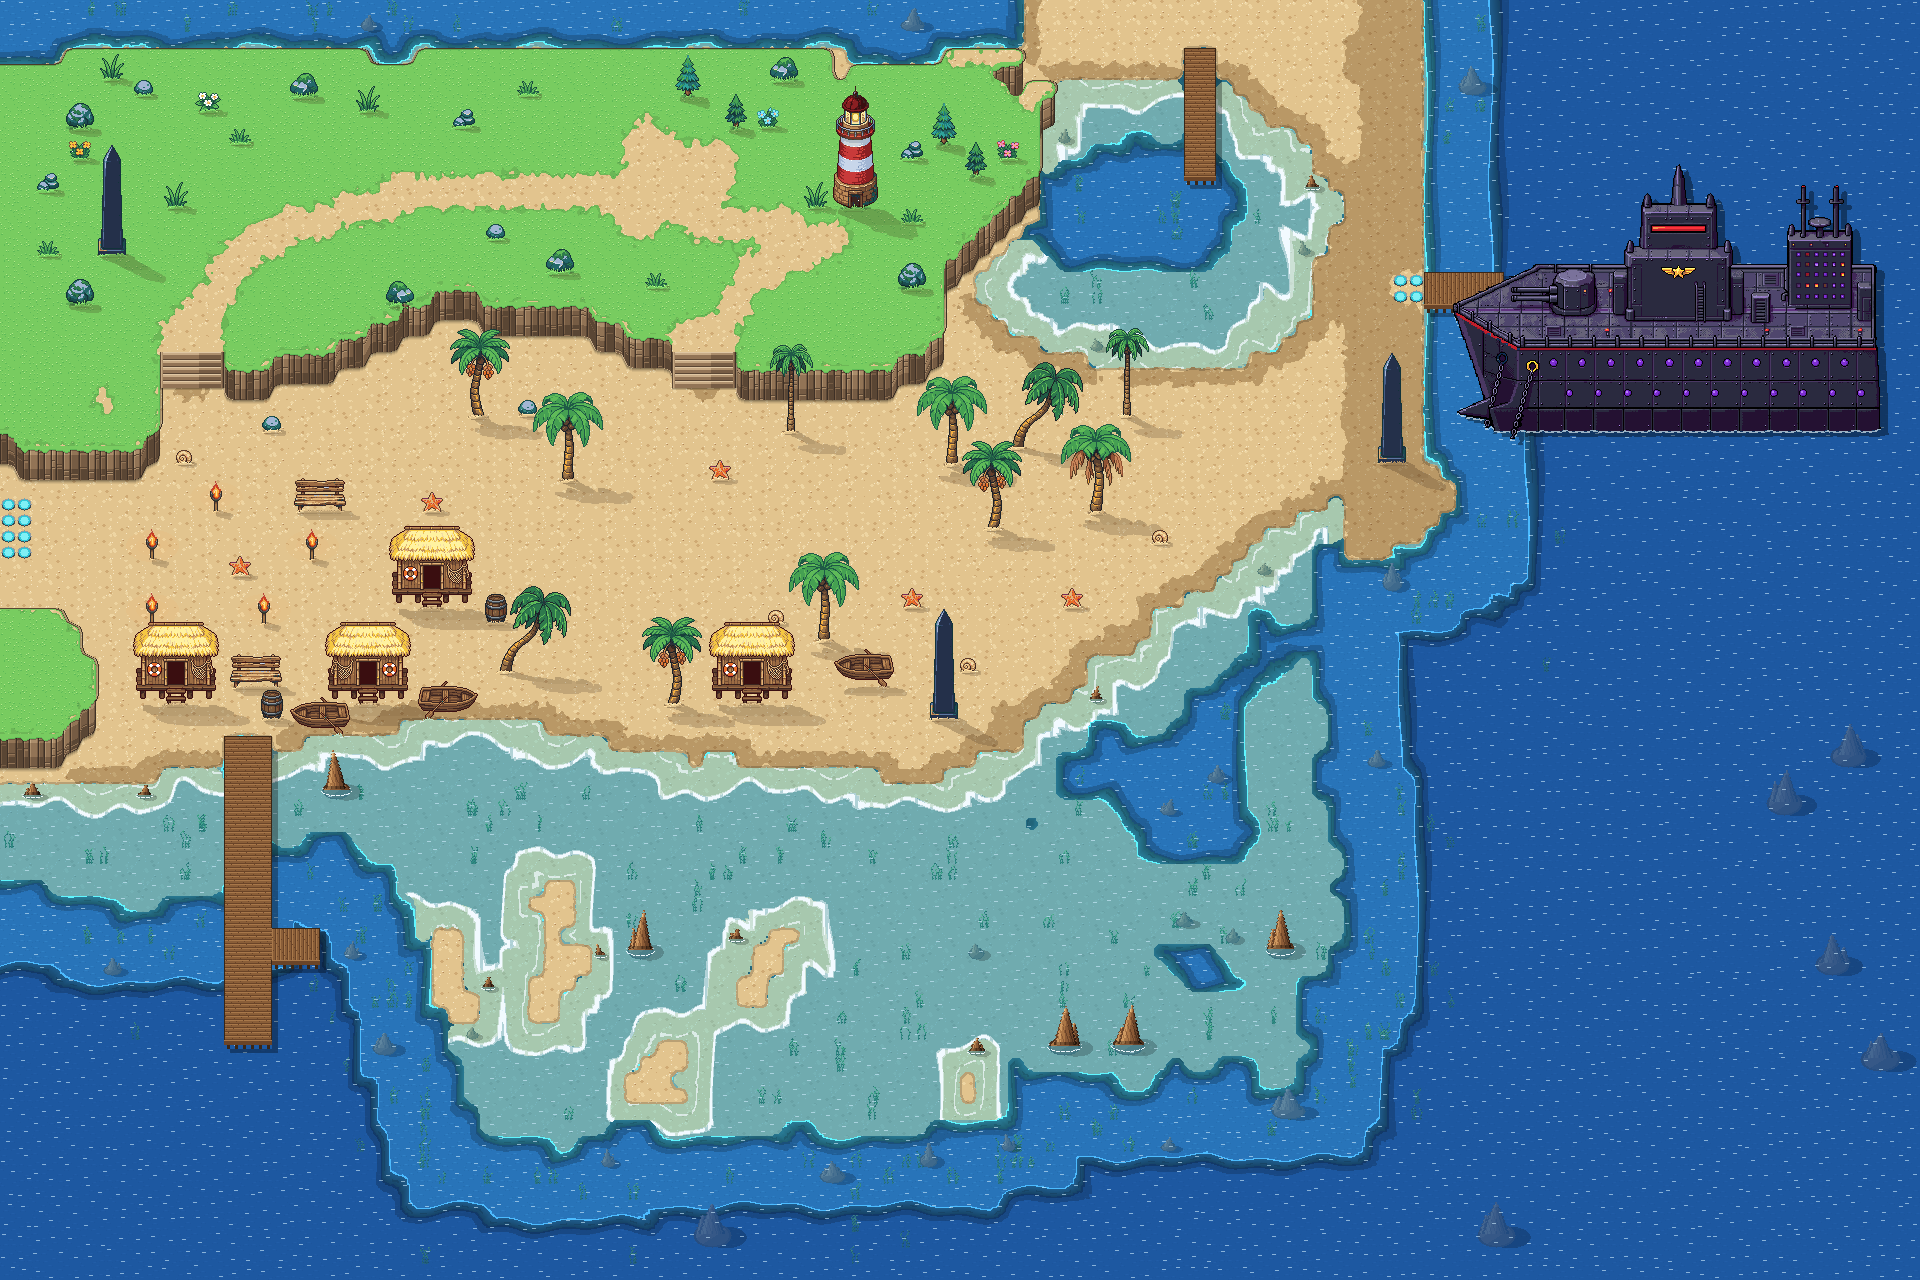
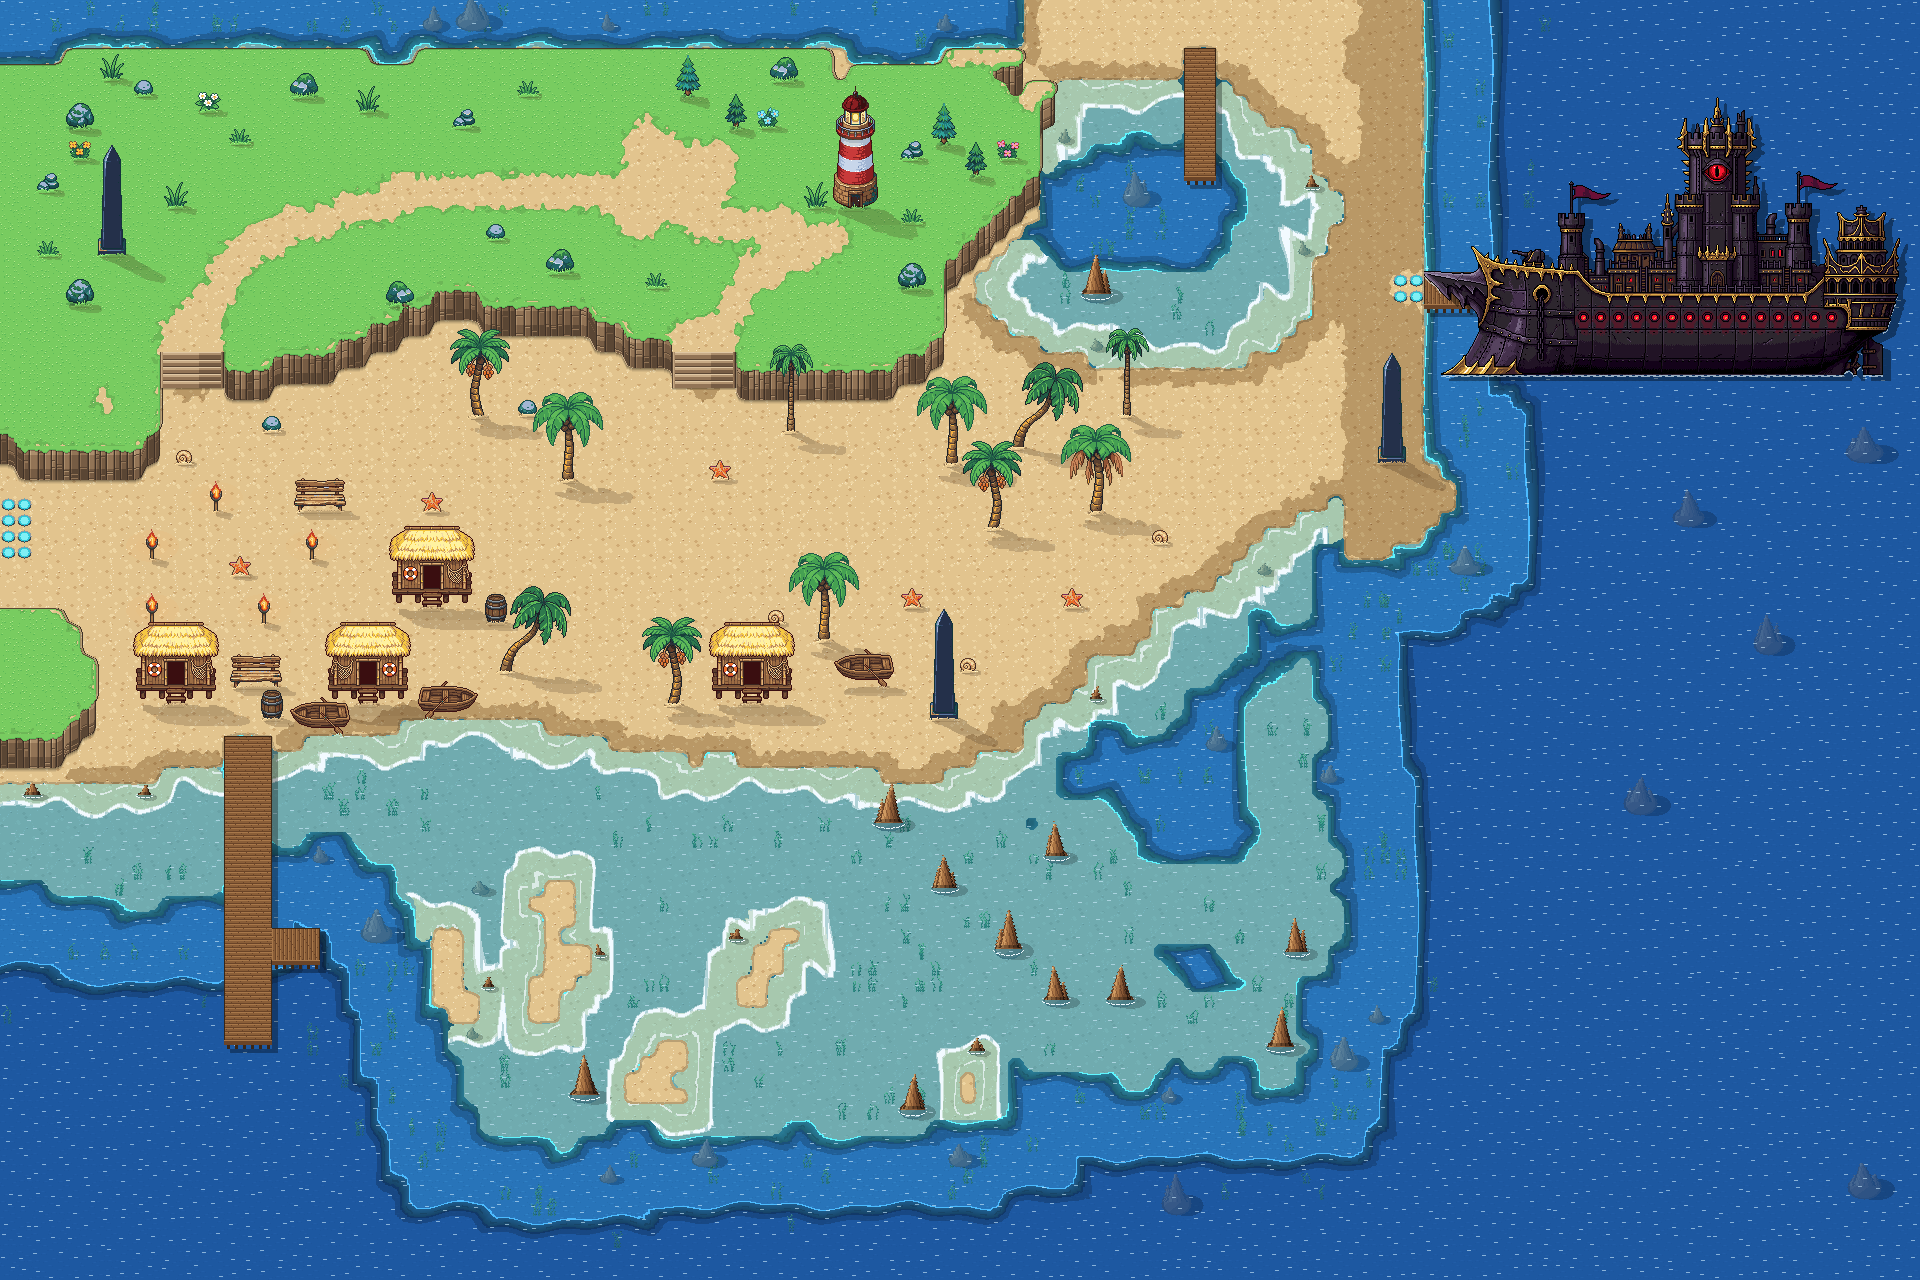
Karte 25: Kaiser-Flaggschiff (eigener Entwurf A) im Hafen, nachgezeichnetes Vorlagenschiff entfernt
Claude-Session: https://claude.ai/code/session_01SaoYHKhnro4LFcPJqjaPsq

diff --git a/tools/karte25_bauen.py b/tools/karte25_bauen.py
@@ -89,13 +89,14 @@ def stege(a, lay, wasser):
     return oben | front
 
 
-SCHIFF_POS = (1424, 160)                 # Lage wie in der Vorlage (Sprite = Vorlagenausschnitt 1424..1904 x 160..464)
+SCHIFF_POS = (1424, 93)                  # Kaiser-Flaggschiff (eigener Entwurf, Nutzer: Variante A): Deck am Bug auf Hoehe des Anlegers
+SCHIFF_DATEI = os.path.join('schiff_a', '00_sauber.png')
 
 
 def schiff(a, wasser, frame):
     """Schiff (PixelLab Pro-Generator, Ausnahme Nutzer) im tiefen Wasser: Schatten nach rechts unten nur auf dem Wasser,
     Schaum an der Wasserlinie (wandert je Bild), Sprite darueber."""
-    sp = np.array(Image.open(os.path.join(OBJ, 'schiff', '00_sauber.png')).convert('RGBA'))
+    sp = np.array(Image.open(os.path.join(OBJ, SCHIFF_DATEI)).convert('RGBA'))
     al = sp[..., 3] > 0
     x0, y0 = SCHIFF_POS
     h, w = al.shape
@@ -173,8 +174,11 @@ def bauen(frame=None, speichern=True):
     d = np.where(df <= 0.5, np.minimum(dl + welle, wd.STUFE1 - 6), wd.STUFE1 + df)
     meiden = maske(cls, 'pT')
     meiden = np.array(Image.fromarray((meiden * 255).astype(np.uint8)).filter(ImageFilter.MaxFilter(9))) > 0
-    sx0, sy0, sx1, sy1 = lay['schiff']
-    meiden[sy0 * T:(sy1 + 1) * T, sx0 * T:(sx1 + 1) * T] = True
+    s_al = np.array(Image.open(os.path.join(OBJ, SCHIFF_DATEI)))[..., 3] > 0      # keine Felsen unter/am Schiff
+    s_m = np.zeros((Hp, Wp), bool)
+    sh_, sw_ = s_al.shape
+    s_m[SCHIFF_POS[1]:SCHIFF_POS[1] + sh_, SCHIFF_POS[0]:SCHIFF_POS[0] + sw_] = s_al[:Hp - SCHIFF_POS[1], :Wp - SCHIFF_POS[0]]
+    meiden |= np.array(Image.fromarray((s_m * 255).astype(np.uint8)).filter(ImageFilter.MaxFilter(25))) > 0
     wd.FELSEN_PROTOKOLL.clear()
     wd.FELSEN_AUSLASSEN = {(912, 952), (1024, 936), (1080, 902), (904, 1096)}   # 4 Felsspitzen in der Mitte weg (Nutzer)
     alt = wd.N_FRAMES
